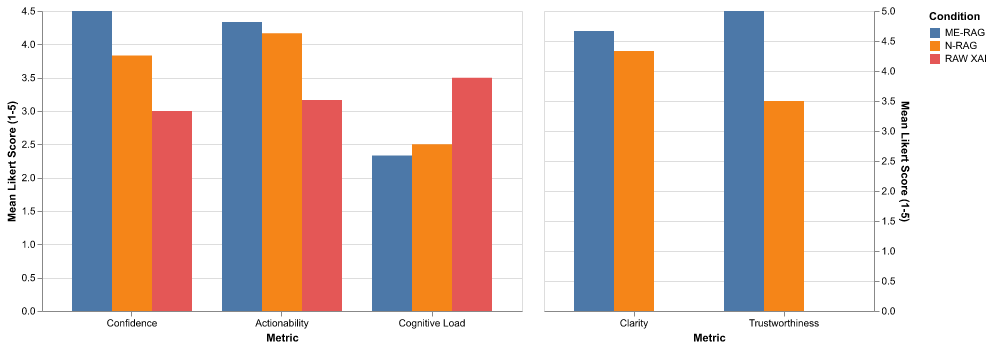
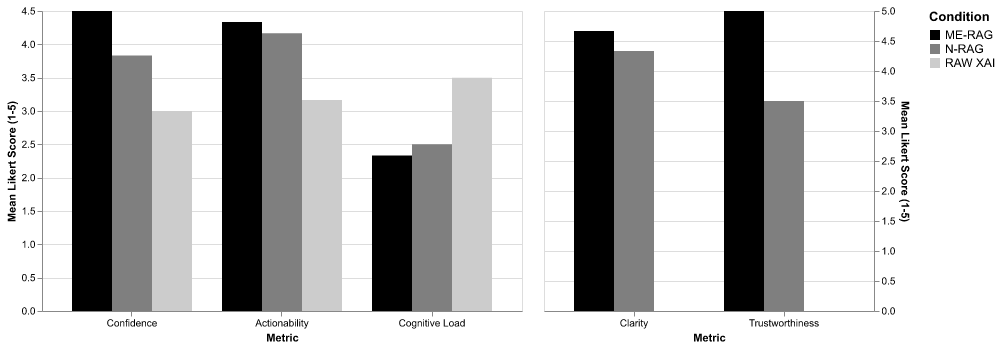
grayscale chart

diff --git a/evaluation/analysis.py b/evaluation/analysis.py
@@ -12,6 +12,11 @@ CONDITION_MAP = {
     "BASE": "N-RAG",
     "FULL": "ME-RAG",
 }
+CONDITION_COLOURS = {
+    "ME-RAG": "#000000",  # Black
+    "N-RAG": "#7f7f7f",  # Dark Gray
+    "RAW XAI": "#cccccc",  # Light Gray
+}
 
 
 METRIC_CONFIDENCE = "I am confident I understand the core problem."
@@ -97,7 +102,15 @@ chart1 = (
             sort=metrics_chart_1,
         ),
         y=alt.Y("mean(Score):Q", title="Mean Likert Score (1-5)"),
-        color=alt.Color("Condition:N", title="Condition"),
+        color=alt.Color(
+            "Condition:N",
+            title="Condition",
+            scale=alt.Scale(
+                domain=list(CONDITION_COLOURS.keys()),
+                range=list(CONDITION_COLOURS.values()),
+            ),
+            legend=alt.Legend(labelFontSize=12, titleFontSize=13),
+        ),
         xOffset="Condition:N",
     )
     .properties(title="", width=alt.Step(40))
@@ -113,7 +126,15 @@ chart2 = (
             title="Mean Likert Score (1-5)",
             axis=alt.Axis(orient="right"),
         ),
-        color=alt.Color("Condition:N", title="Condition"),
+        color=alt.Color(
+            "Condition:N",
+            title="Condition",
+            scale=alt.Scale(
+                domain=list(CONDITION_COLOURS.keys()),
+                range=list(CONDITION_COLOURS.values()),
+            ),
+            legend=alt.Legend(labelFontSize=12, titleFontSize=13),
+        ),
         xOffset="Condition:N",
     )
     .properties(title="", width=alt.Step(40))
